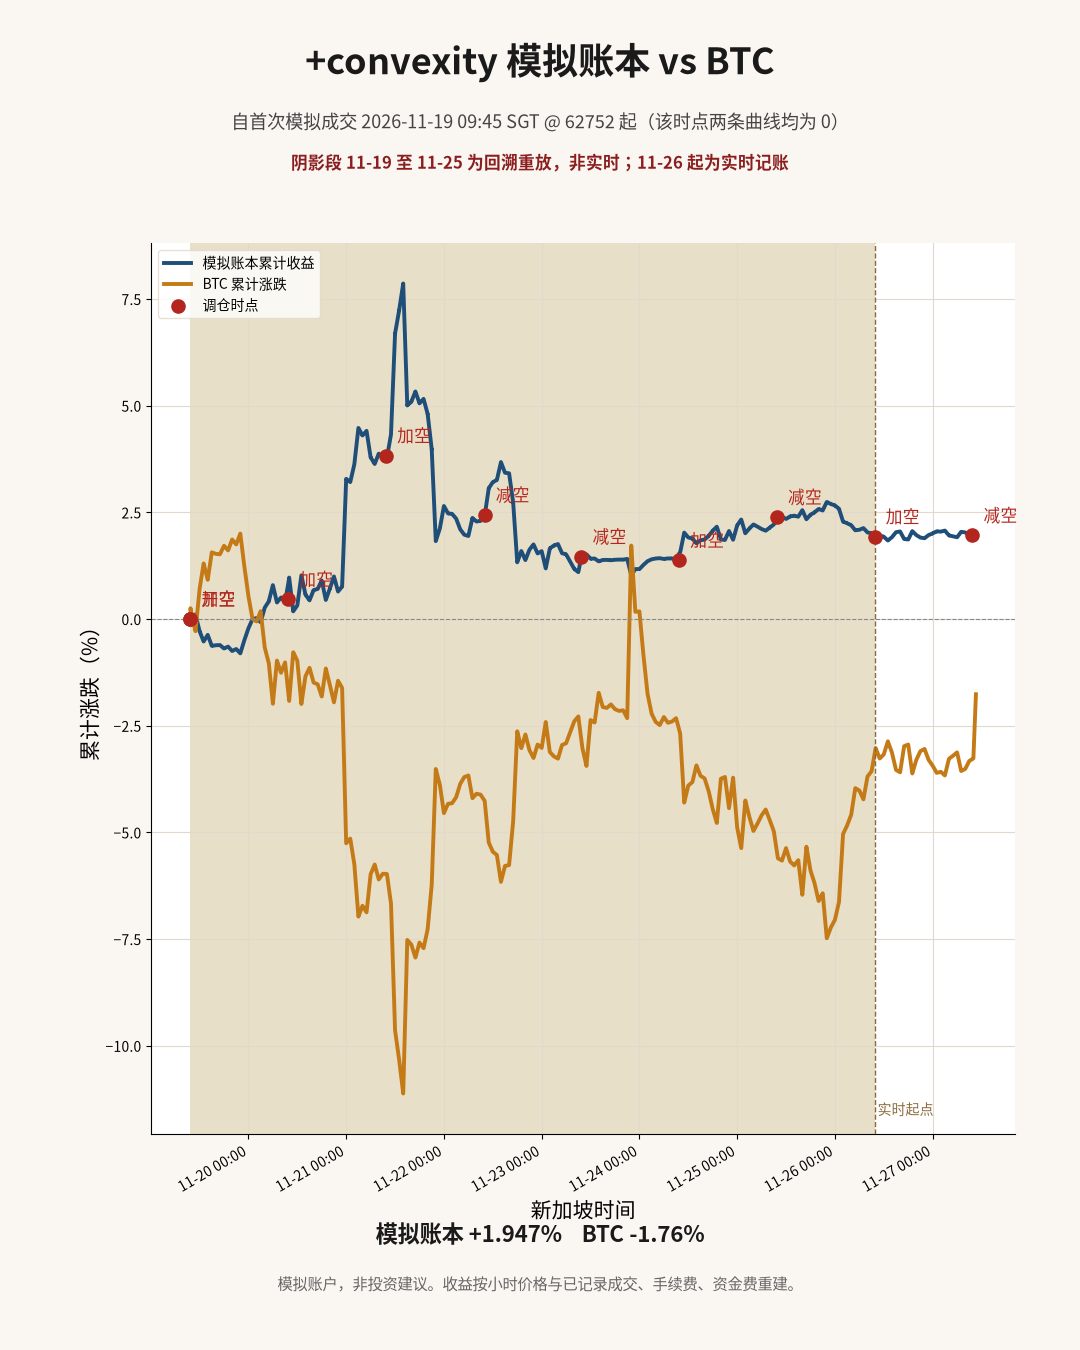
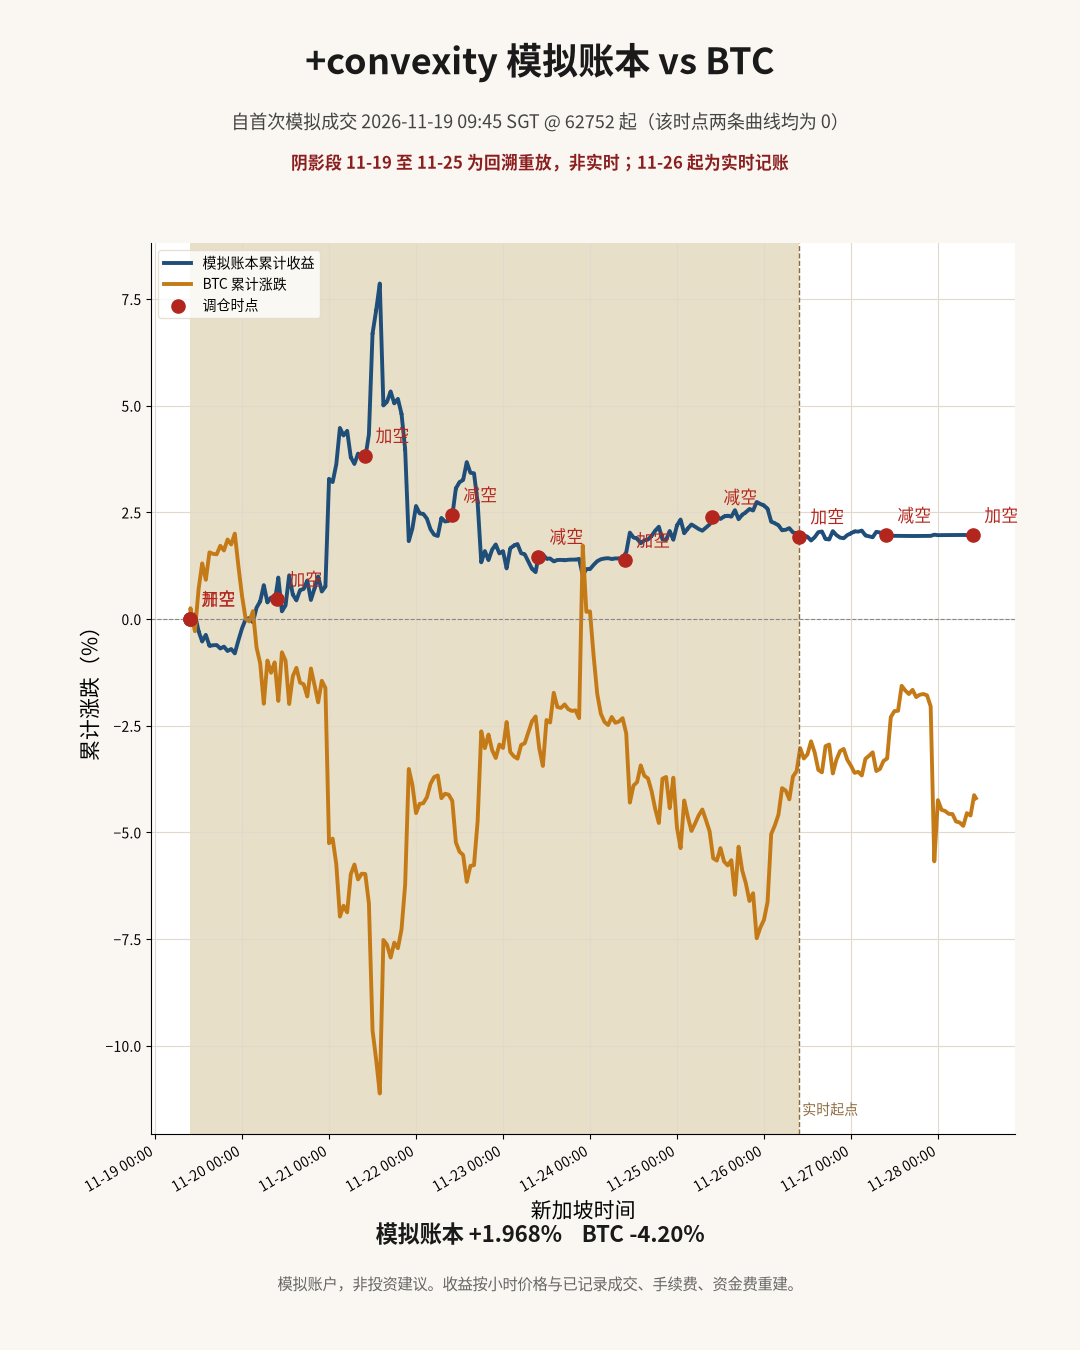
ledger 2026-11-28 SGT

diff --git a/reports/latest.md b/reports/latest.md
@@ -1,24 +1,24 @@
-# +convexity 模拟账本 2026-11-27
+# +convexity 模拟账本 2026-11-28
 
-日期：2026-11-27（新加坡时间，SGT）
-更新：2026-11-27 10:37 SGT（按当时中间价盯市）
+日期：2026-11-28（新加坡时间，SGT）
+更新：2026-11-28 10:29 SGT（按当时中间价盯市）
 
 ## 持仓
-- BTC 空 0.01217，开仓均价 61341.3，名义 750.24 USD，杠杆 0.0074x
+- BTC 空 0.24345，开仓均价 60211.5，名义 14,635.61 USD，杠杆 0.1436x
 
 ## 今日调仓
-减空 0.44842 BTC @ 60676
+加空 0.23128 BTC @ 60152
 
 ## 盈亏
-- 今日 PnL：-61.37 USD
-- 累计 PnL：+1,933.84 USD
-- 累计收益率：+1.9338%
-- 模拟权益：101,933.84 USD
+- 今日 PnL：+20.59 USD
+- 累计 PnL：+1,954.43 USD
+- 累计收益率：+1.9544%
+- 模拟权益：101,954.43 USD
 - 最大回撤（按每日权益）：-2.36%（高点 2026-11-21，低点 2026-11-24）
 
 ## BTC
-- 近24h：61646.5，较 11-26 10:37 SGT 的 60758.7 为 +1.46%
-- 自起始日（首次模拟成交 2026-11-19 09:45 SGT @ 62752）：-1.76%
+- 近24h：60117.5，较 11-27 10:29 SGT 的 61000.1 为 -1.45%
+- 自起始日（首次模拟成交 2026-11-19 09:45 SGT @ 62752）：-4.20%
 
 说明：2026-11-19 至 2026-11-25 为回溯重放，非实时；2026-11-26 起为实时记账。已剔除出入金驱动的补仓。
 

diff --git a/README.md b/README.md
@@ -15,15 +15,15 @@
 ## 最新摘要
 
 <!-- LEDGER-SUMMARY:START -->
-- 更新时间（新加坡时间）：2026-11-27 10:37:23 SGT
-- 模拟权益：101,933.84 USD
-- 累计收益：+1.9338%
-- 当日盈亏：-61.37 USD
-- 模拟仓位：BTC:-0.01217
-- BTC 中间价：61646.5（近24h +1.46%，自起始日 -1.76%）
-- 今日调仓：减空 0.44842 BTC @ 60676
+- 更新时间（新加坡时间）：2026-11-28 10:29:18 SGT
+- 模拟权益：101,954.43 USD
+- 累计收益：+1.9544%
+- 当日盈亏：+20.59 USD
+- 模拟仓位：BTC:-0.24345
+- BTC 中间价：60117.5（近24h -1.45%，自起始日 -4.20%）
+- 今日调仓：加空 0.23128 BTC @ 60152
 
-日报全文：[2026-11-27.md](reports/2026-11-27.md) · 可复制文案：[latest_post.txt](reports/latest_post.txt)
+日报全文：[2026-11-28.md](reports/2026-11-28.md) · 可复制文案：[latest_post.txt](reports/latest_post.txt)
 
 **模拟账本 vs BTC**（自首次模拟成交 2026-11-19 09:45 SGT @ 62752 起，该时点两条曲线为 0；11-19 至 11-25 为回溯重放，非实时）
 

diff --git a/reports/2026-11-28.md b/reports/2026-11-28.md
@@ -1,0 +1,28 @@
+# +convexity 模拟账本 2026-11-28
+
+日期：2026-11-28（新加坡时间，SGT）
+更新：2026-11-28 10:29 SGT（按当时中间价盯市）
+
+## 持仓
+- BTC 空 0.24345，开仓均价 60211.5，名义 14,635.61 USD，杠杆 0.1436x
+
+## 今日调仓
+加空 0.23128 BTC @ 60152
+
+## 盈亏
+- 今日 PnL：+20.59 USD
+- 累计 PnL：+1,954.43 USD
+- 累计收益率：+1.9544%
+- 模拟权益：101,954.43 USD
+- 最大回撤（按每日权益）：-2.36%（高点 2026-11-21，低点 2026-11-24）
+
+## BTC
+- 近24h：60117.5，较 11-27 10:29 SGT 的 61000.1 为 -1.45%
+- 自起始日（首次模拟成交 2026-11-19 09:45 SGT @ 62752）：-4.20%
+
+说明：2026-11-19 至 2026-11-25 为回溯重放，非实时；2026-11-26 起为实时记账。已剔除出入金驱动的补仓。
+
+账本：https://github.com/maxwellztx-sudo/convexity-paper-ledger
+金库地址：`0x5661a070eb13c7c55ac3210b2447d4bea426cbf5`（可公开核对）
+
+免责：此为模拟账户记录，不是投资建议。
